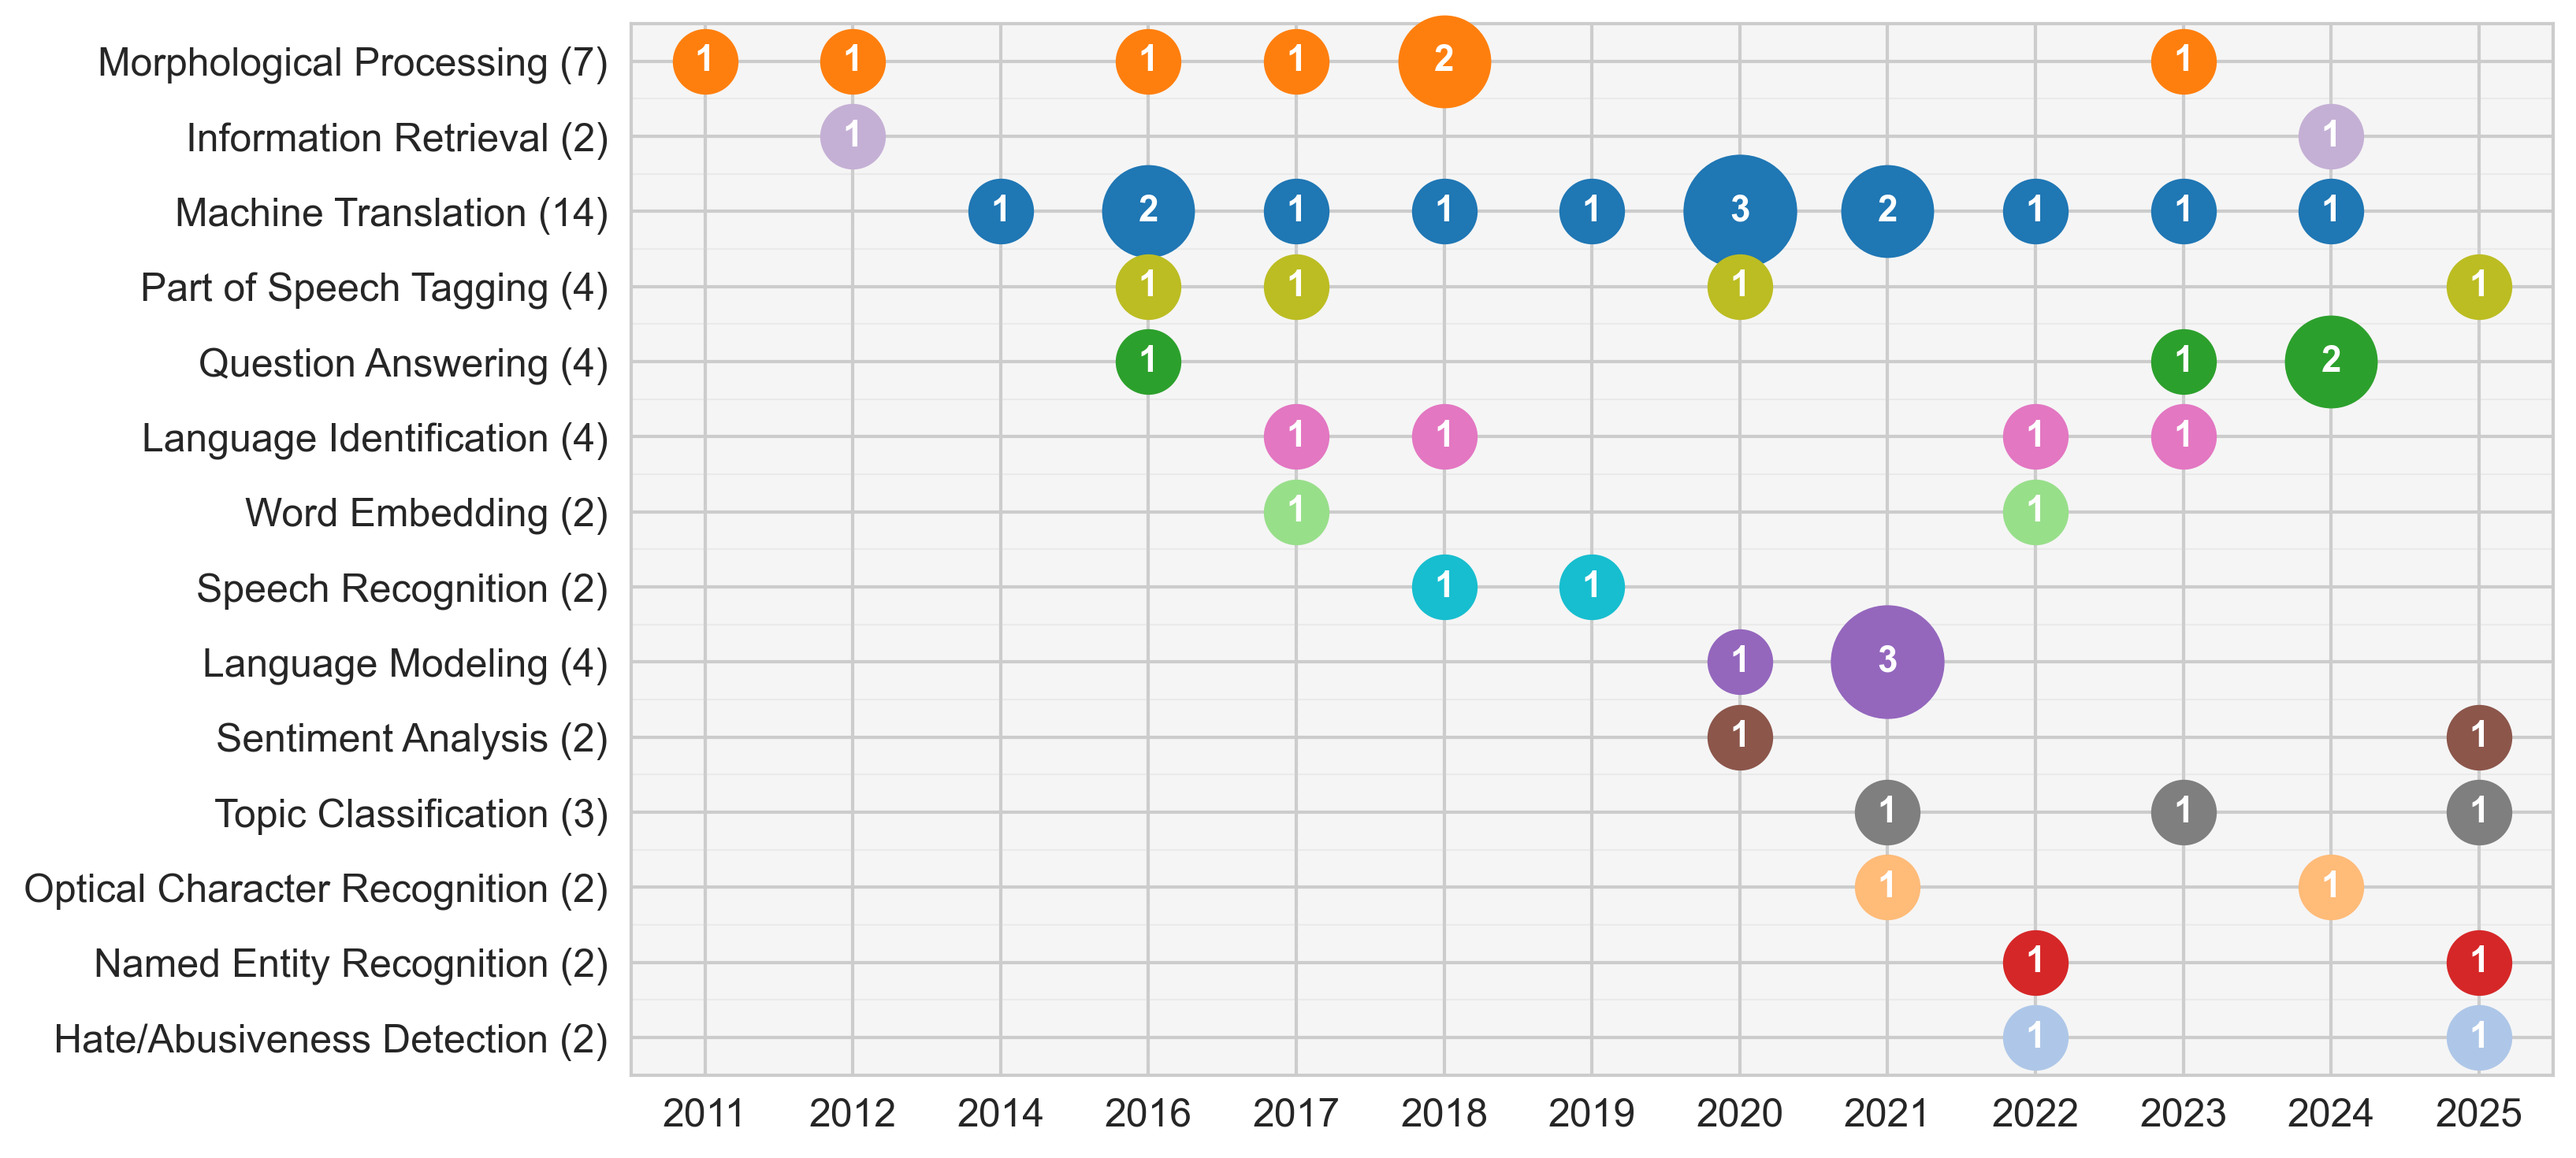
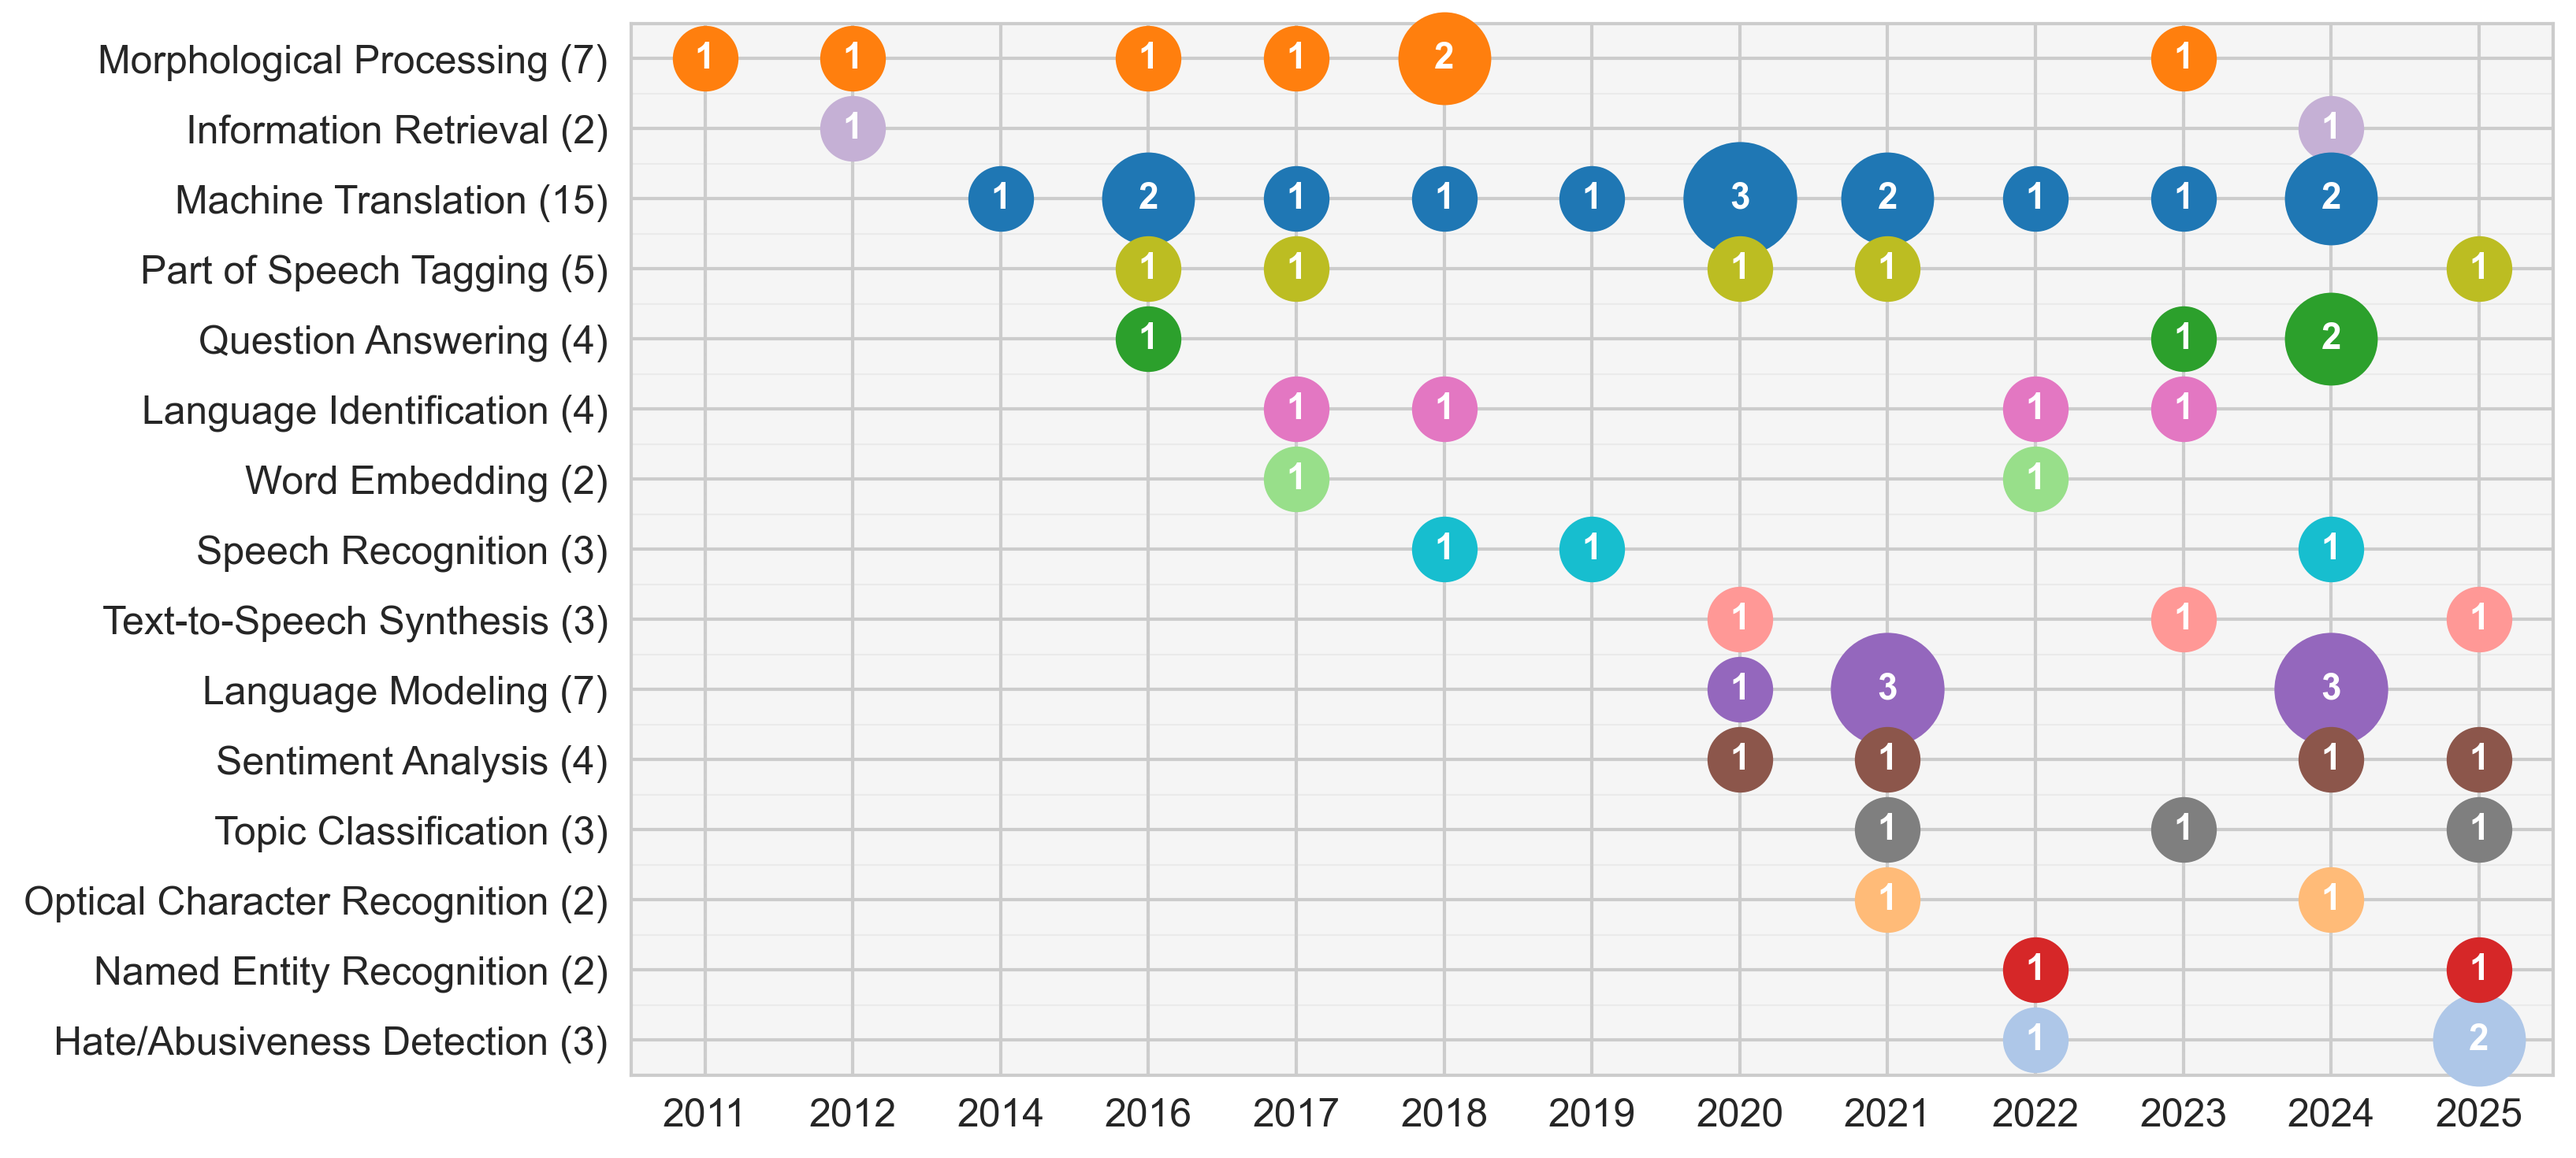
Add new papers and update plot

Changed region(s): [[0.0, 0.0306, 0.9985, 0.949], [0.0312, 0.8878, 0.7801, 0.9184], [0.3432, 0.0306, 0.9985, 0.0612]]

diff --git a/README.md b/README.md
@@ -8,18 +8,20 @@ This repository contains the official, curated anthology of research papers and 
 
 ## Overview
 
-This work presents a comprehensive survey of NLP research for Tigrinya, analyzing **45 studies** published between **2011 and 2025**. We systematically review the current state of computational resources, models, and applications across **ten distinct NLP tasks**, including:
+This work presents a comprehensive survey of NLP research for Tigrinya, analyzing over **50 studies** published between **2011 and 2025**. We systematically review the current state of computational resources, models, and applications across multiple downstream tasks, including:
 
 - **Morphological Processing** - Rule-based stemmers, finite-state transducers, neural boundary detection
-- **Machine Translation** - Statistical MT, Neural MT, transfer learning approaches  
+- **Machine Translation** - Statistical MT, Neural MT, transfer learning approaches
 - **Part-of-Speech Tagging** - CRF/SVM models, BiLSTM architectures, transformer fine-tuning
 - **Named Entity Recognition** - Small-scale to large-scale annotated datasets and models
-- **Text Classification** - News categorization, sentiment analysis, hate speech detection
-- **Language/Dialect Identification** - Mutual intelligibility studies, dialect detection
-- **Language Modeling** - Monolingual corpora construction, pre-trained transformer models
+- **Text Classification** - Topic categorization, sentiment analysis, hate speech detection
 - **Question-Answering** - Factoid QA, reading comprehension benchmarks, educational datasets
+- **Language Modeling** - Monolingual corpora construction, pre-trained transformer models
+- **Automatic Speech Recognition** - Corpus design, deep neural networks, hybrid CTC-Attention models
+- **Text-to-Speech** - Concatenative synthesis, neural TTS (Tacotron), massively multilingual speech models
 - **Optical Character Recognition** - GLOCR dataset, CRNN-based models for Ge'ez script
-- **Speech Recognition** - Corpus design, deep neural network applications
+- **Information Retrieval** - Word stemming for lexical retrieval, bi-encoder models for semantic search
+- **Language/Dialect Identification** - Mutual intelligibility studies, dialect detection
 
 The research spans from early rule-based systems (2011) to modern neural architectures and large language models (2025), highlighting how community-led dataset creation has been the primary catalyst for advancement.
 
@@ -69,9 +71,9 @@ When adding new entries, please include:
 - Complete bibliographic information (authors, title, venue, year, abstract, doi, etc)
 - Primary NLP task classification using the `tasks` field. Multiple task areas can be separated by commas.
 
-## Citing this Work
+## Citation
 
-If you use the resources in this anthology for your research, you can cite the corresponding paper:
+If you use the anthology in your research, you can cite the corresponding paper:
 
 ```bibtex
 @misc{gaim-park-2025-tigrinya-nlp-anthology,
@@ -82,7 +84,7 @@ If you use the resources in this anthology for your research, you can cite the c
     eprint={2507.17974},
     archivePrefix={arXiv},
     primaryClass={cs.CL},
-    url={https://arxiv.org/abs/2507.17974}, 
+    url={https://arxiv.org/abs/2507.17974}
 }
 ```
 
